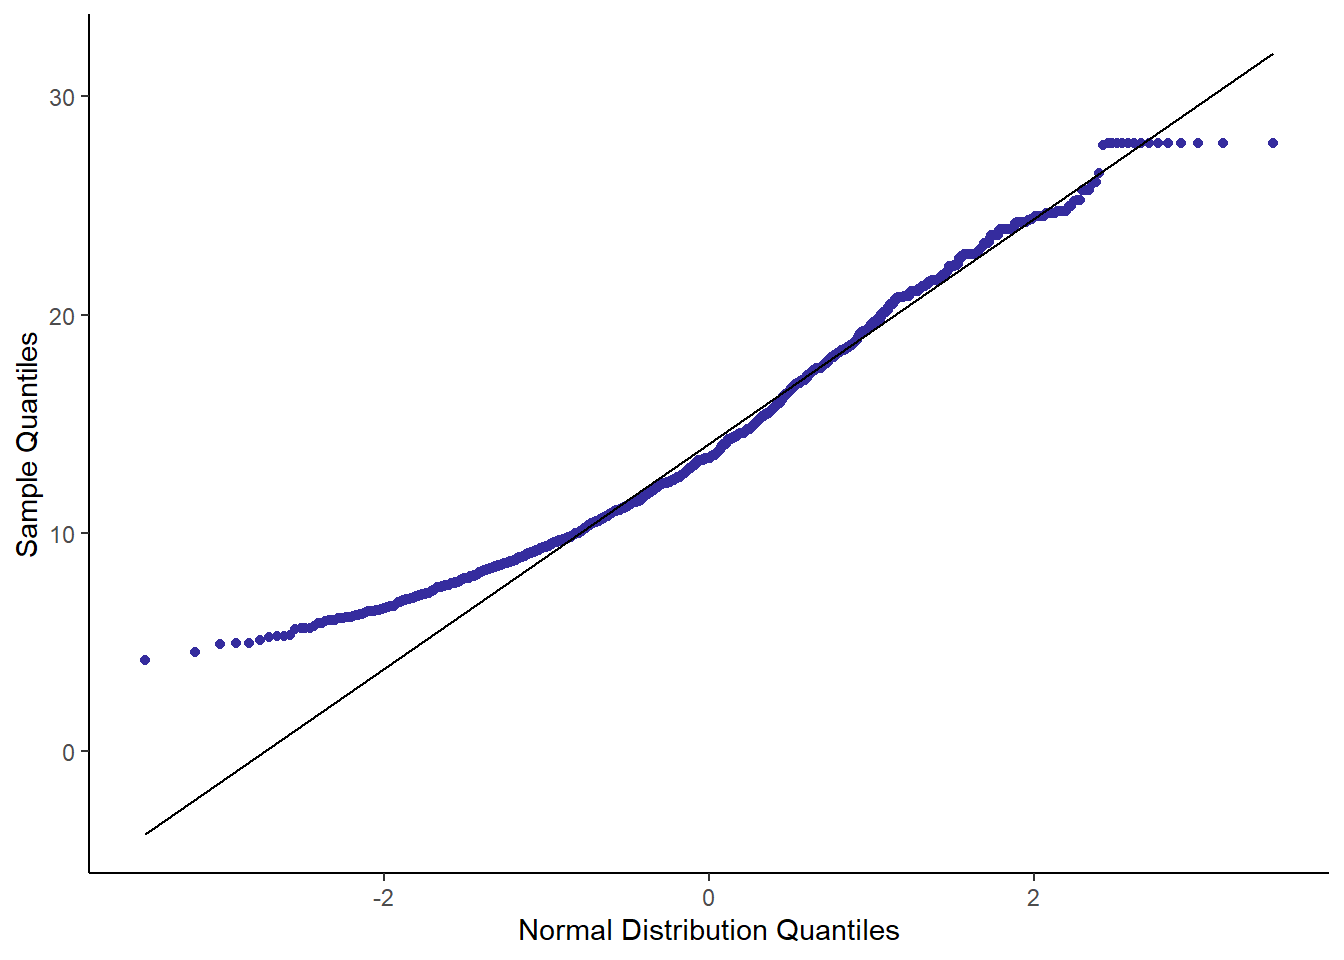
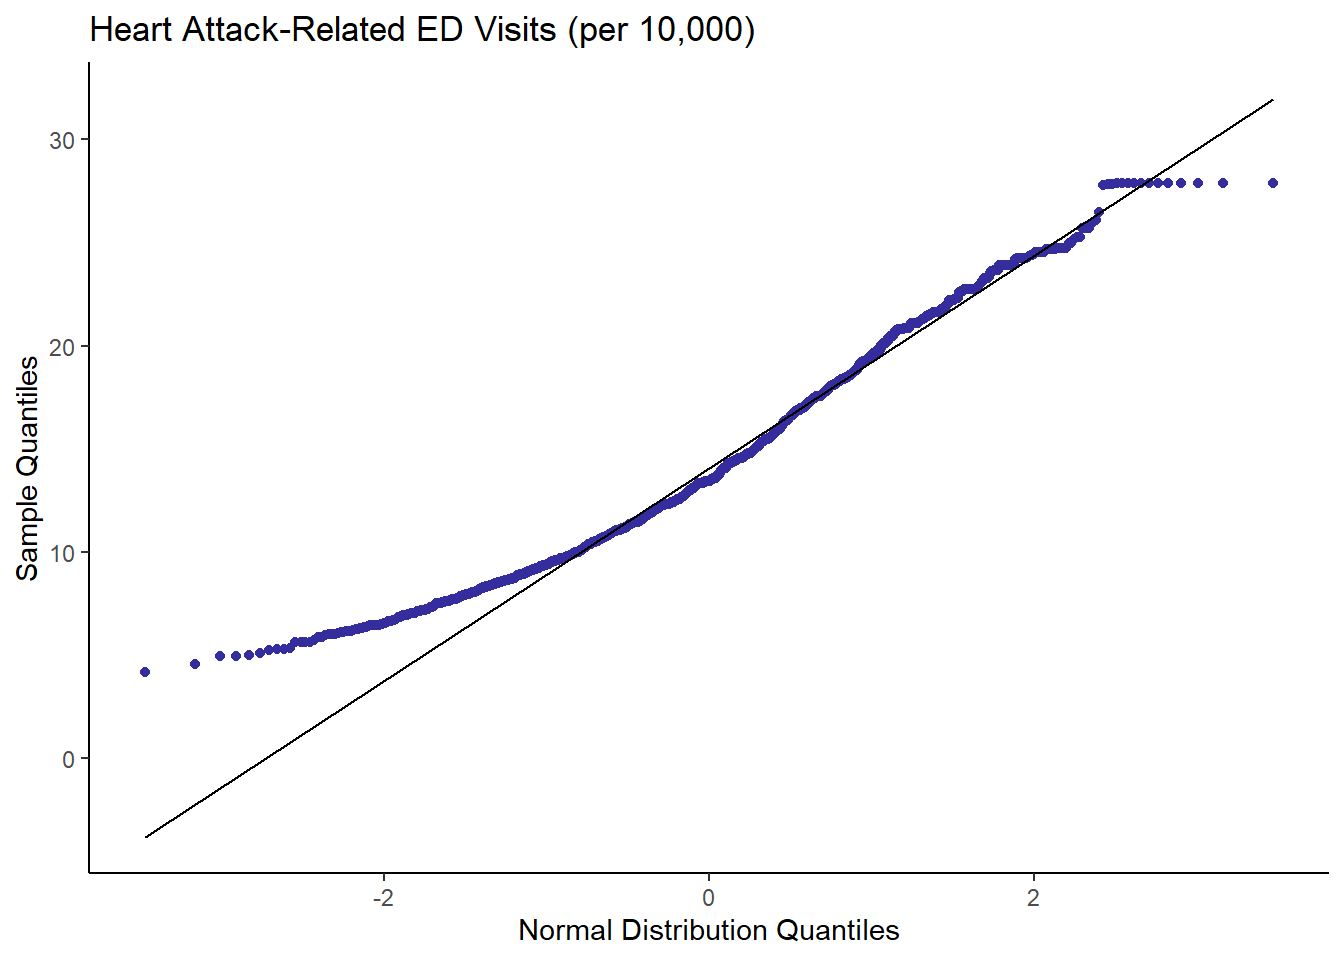
editing

diff --git a/water-quality-and-socioeconomic-status-in-la-county.html b/water-quality-and-socioeconomic-status-in-la-county.html
@@ -7,7 +7,7 @@
 <meta name="viewport" content="width=device-width, initial-scale=1.0, user-scalable=yes">
 
 
-<title>Water Quality and Socioeconomic Status In LA County</title>
+<title>Income and Cardiovascular Health</title>
 <style>
 code{white-space: pre-wrap;}
 span.smallcaps{font-variant: small-caps;}
@@ -81,7 +81,7 @@ pre > code.sourceCode > span > a:first-child::before { text-decoration: underlin
 
 <header id="title-block-header" class="quarto-title-block default">
 <div class="quarto-title">
-<h1 class="title">Water Quality and Socioeconomic Status In LA County</h1>
+<h1 class="title">Income and Cardiovascular Health</h1>
 </div>
 
 
@@ -299,8 +299,9 @@ F-statistic:   557 on 1 and 1903 DF,  p-value: &lt; 2.2e-16</code></pre>
 <span id="cb9-6"><a href="#cb9-6" aria-hidden="true" tabindex="-1"></a></span>
 <span id="cb9-7"><a href="#cb9-7" aria-hidden="true" tabindex="-1"></a></span>
 <span id="cb9-8"><a href="#cb9-8" aria-hidden="true" tabindex="-1"></a><span class="fu">stargazer</span>(m1, m2, m3, <span class="at">title =</span> <span class="st">'Regression Results'</span>,<span class="at">type=</span><span class="st">"text"</span>, <span class="at">dep.var.labels =</span> <span class="fu">c</span>(<span class="st">'Heart Attack Related ED Visits per 10,000'</span>),</span>
-<span id="cb9-9"><a href="#cb9-9" aria-hidden="true" tabindex="-1"></a>          <span class="at">covariate.labels=</span><span class="fu">c</span>(<span class="st">"Median Household Income"</span>,<span class="st">"Particulate Matter Concentration"</span>,<span class="st">"% Population &gt; 25 with less than a High School Education"</span>),</span>
-<span id="cb9-10"><a href="#cb9-10" aria-hidden="true" tabindex="-1"></a>          <span class="at">omit.stat =</span> <span class="fu">c</span>(<span class="st">'f'</span>),<span class="at">align =</span> <span class="cn">TRUE</span>)</span></code><button title="Copy to Clipboard" class="code-copy-button"><i class="bi"></i></button></pre></div>
+<span id="cb9-9"><a href="#cb9-9" aria-hidden="true" tabindex="-1"></a>          <span class="at">covariate.labels=</span><span class="fu">c</span>(<span class="st">"Median Household Income"</span>,<span class="st">"PM 2.5 Concentration"</span>,<span class="st">"% Population &gt; 25 with less than a High School Education"</span>),</span>
+<span id="cb9-10"><a href="#cb9-10" aria-hidden="true" tabindex="-1"></a>          <span class="at">omit.stat =</span> <span class="fu">c</span>(<span class="st">'f'</span>),</span>
+<span id="cb9-11"><a href="#cb9-11" aria-hidden="true" tabindex="-1"></a>          <span class="at">font.size =</span> <span class="st">'small'</span>,<span class="at">align =</span> <span class="cn">TRUE</span>)</span></code><button title="Copy to Clipboard" class="code-copy-button"><i class="bi"></i></button></pre></div>
 </details>
 <div class="cell-output cell-output-stdout">
 <pre><code>
@@ -314,7 +315,7 @@ Regression Results
 Median Household Income                                     -0.0001***                          -0.00003***   
                                                              (0.00000)                           (0.00000)    
                                                                                                               
-Particulate Matter Concentration                                                0.254*           -0.465***    
+PM 2.5 Concentration                                                            0.254*           -0.465***    
                                                                                 (0.131)           (0.111)     
                                                                                                               
 % Population &gt; 25 with less than a High School Education                                         0.119***     
@@ -407,7 +408,7 @@ Note:                                                                           
 <span id="cb14-26"><a href="#cb14-26" aria-hidden="true" tabindex="-1"></a>z <span class="ot">&lt;-</span> (point_est_cardio <span class="sc">-</span> <span class="dv">0</span>)<span class="sc">/</span>standard_error</span></code><button title="Copy to Clipboard" class="code-copy-button"><i class="bi"></i></button></pre></div>
 </details>
 </div>
-<p>The z-score of <code>24.22</code> indicates that the observed difference in cardiovascular disease related ED visits between Above Moderate Income census tracts and Very Low Income census tract groups is 24.2 standard deviations <strong>below</strong> the null of zero difference.</p>
+<p>The z-score of <code>24.22</code> indicates that the observed difference in cardiovascular disease related ED visits between Above Moderate Income census tracts and Very Low Income census tract groups is 24.2 standard deviations <strong>above</strong> the null of zero difference.</p>
 <p>Now that I have a calculated z-score, I am then able to calculate the p-value. I decided to input <code>lower.tail = TRUE</code> because I am finding the probability that the lower tail of my confidence interval is no bigger than my z score of <code>24.22</code>.</p>
 <p>* In other words, I am using <code>lower.tail = TRUE</code> because we are trying to calculate the probability to the <strong>left</strong> of 0 .</p>
 <div class="cell">
@@ -468,16 +469,18 @@ mean of x mean of y
 <p>Understanding the impact that socioeconomic status can have on a census tracts’ overall health is important in order to address the larger issue at hand : environmental racism. Through hypothesis testing and linear regression, I was able to conclude that cardiovascular health does depend on a variety of factors that are outside the scope of the data sets used, but I was able to point out the disparities between two vastly different income groups.</p>
 <p>Based on the <code>stargazer</code> results, adding more variables to the third linear model did increase the <code>R2</code> value, but not enough to conclude that there is a strong correlation as its value was less than 0.5. The <code>p-value of 6.561525e-130</code> indicates that it is <strong>very unlikely</strong> to see the point estimate if the null hypothesis were true. In other words, there is a 5% chance that observing the point estimate of 5.98 would occur even if the null hypothesis were true.</p>
 <p>This is consistent with the research provided by the EPA stating that the occurrence of cardiovascular disease does rely on a number of factors. I decided to use income as the explanatory variable because ,generally speaking, households in LA County that are of low income tend to live closer to freeways or polluting facilities.</p>
-<p>Both methods of conducting the hypothesis test of the difference in two means calculated a p-value of less than 0.05. Thus, we can <strong>reject the null</strong> that there is no difference in heart attack related ED visits across above moderate income and very low income census tract groups. In conclusion, I found a statistically significant effect in which average income lowers the heart attack related ED rate.</p>
+<p>Both methods of conducting the hypothesis test of the difference in two means calculated a p-value of less than 0.05. Thus, we can <strong>reject the null</strong> that there is no difference in heart attack related ED visits across above moderate income and very low income census tract groups. In conclusion, I found a statistically significant effect in which average income lowers the heart attack related ED rate per 10,000 people.</p>
+<p>In the future, consistent units for certain variables like <code>drinking_water</code> would be helpful in running a deeper analysis. As the unit for this variable is the sum of percentiles of selected contaminants, it can be challenging to associate unit increases when percentiles come into play.</p>
 </section>
 <section id="conclusion" class="level2">
 <h2 class="anchored" data-anchor-id="conclusion">Conclusion</h2>
+<p>Although income level isn’t the only explanatory variable for cardiovascular health, this study highlighted the other potential socioeconomic factors that can be affected by income. Further research on this topic needs to be conducted, and possibly done in other states to confirm whether or not the effect is consistent in other parts of the world. Moreover, this analysis does prove there to be a correlation and statistically significant significance between income and cardiovascular health.</p>
 </section>
 <section id="references" class="level2">
 <h2 class="anchored" data-anchor-id="references">References</h2>
 <p><em>Air Pollution and Cardiovascular Disease Basics | US EPA</em>, www.epa.gov/air-research/air-pollution-and-cardiovascular-disease-basics.</p>
-<p>Li, Min, and Faxi Yuan. "Historical Redlining and Resident Exposure to Covid-19: A Study of New York City." <em>Race and Social Problems</em>, U.S. National Library of Medicine, 2022, www.ncbi.nlm.nih.gov/pmc/articles/PMC8212581/#CR3.</p>
-<p>"Socioeconomic Factors." <em>Centers for Disease Control and Prevention</em>, 1 Sept.&nbsp;2023, www.cdc.gov/dhdsp/health_equity/socioeconomic.htm#:~:text=Socioeconomic%20status%20is%20a%20multidimensional,employment%20status%2C%20and%20other%20factors.&amp;text=Low%20socioeconomic%20status%20is%20associated,from%20cardiovascular%20disease%20(CVD).</p>
+<p>Li, Min, and Faxi Yuan. “Historical Redlining and Resident Exposure to Covid-19: A Study of New York City.” <em>Race and Social Problems</em>, U.S. National Library of Medicine, 2022, www.ncbi.nlm.nih.gov/pmc/articles/PMC8212581/#CR3.</p>
+<p>“Socioeconomic Factors.” <em>Centers for Disease Control and Prevention</em>, 1 Sept.&nbsp;2023, www.cdc.gov/dhdsp/health_equity/socioeconomic.htm#:~:text=Socioeconomic%20status%20is%20a%20multidimensional,employment%20status%2C%20and%20other%20factors.&amp;text=Low%20socioeconomic%20status%20is%20associated,from%20cardiovascular%20disease%20(CVD).</p>
 <section id="supplemental-figures" class="level3">
 <h3 class="anchored" data-anchor-id="supplemental-figures">Supplemental Figures</h3>
 <div class="cell">
@@ -489,8 +492,9 @@ mean of x mean of y
 <span id="cb21-4"><a href="#cb21-4" aria-hidden="true" tabindex="-1"></a>  <span class="fu">geom_qq_line</span>(<span class="fu">aes</span>(<span class="at">sample =</span> income_water_la<span class="sc">$</span>cardiovascular_disease))<span class="sc">+</span></span>
 <span id="cb21-5"><a href="#cb21-5" aria-hidden="true" tabindex="-1"></a>  <span class="fu">theme</span>(<span class="at">line =</span> <span class="fu">element_blank</span>())<span class="sc">+</span></span>
 <span id="cb21-6"><a href="#cb21-6" aria-hidden="true" tabindex="-1"></a>  <span class="fu">labs</span>(<span class="at">x =</span> <span class="st">'Normal Distribution Quantiles'</span>,</span>
-<span id="cb21-7"><a href="#cb21-7" aria-hidden="true" tabindex="-1"></a>       <span class="at">y =</span> <span class="st">'Sample Quantiles'</span>)<span class="sc">+</span></span>
-<span id="cb21-8"><a href="#cb21-8" aria-hidden="true" tabindex="-1"></a>  <span class="fu">theme_classic</span>()</span></code><button title="Copy to Clipboard" class="code-copy-button"><i class="bi"></i></button></pre></div>
+<span id="cb21-7"><a href="#cb21-7" aria-hidden="true" tabindex="-1"></a>       <span class="at">y =</span> <span class="st">'Sample Quantiles'</span>,</span>
+<span id="cb21-8"><a href="#cb21-8" aria-hidden="true" tabindex="-1"></a>       <span class="at">title =</span> <span class="st">'Heart Attack-Related ED Visits (per 10,000)'</span>)<span class="sc">+</span></span>
+<span id="cb21-9"><a href="#cb21-9" aria-hidden="true" tabindex="-1"></a>  <span class="fu">theme_classic</span>()</span></code><button title="Copy to Clipboard" class="code-copy-button"><i class="bi"></i></button></pre></div>
 </details>
 <div class="cell-output cell-output-stderr">
 <pre><code>Warning: Use of `income_water_la$cardiovascular_disease` is discouraged.
